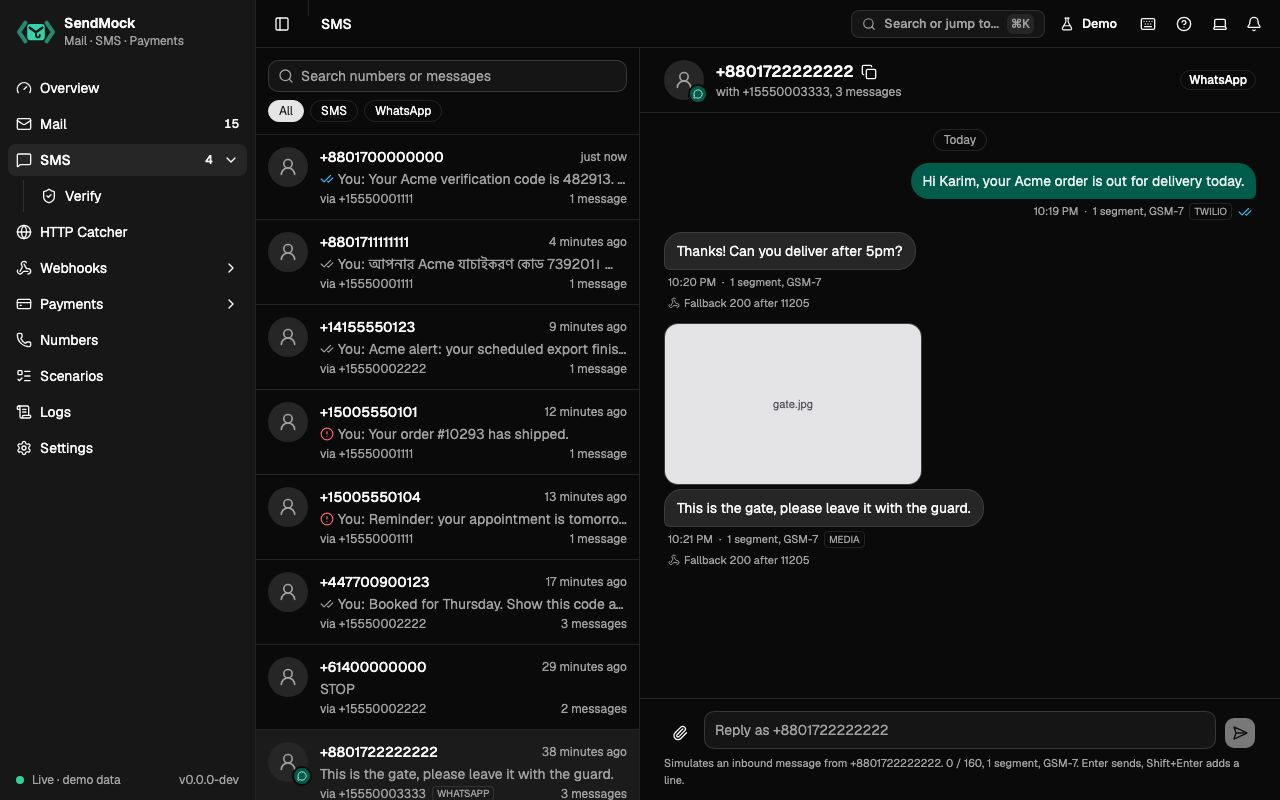
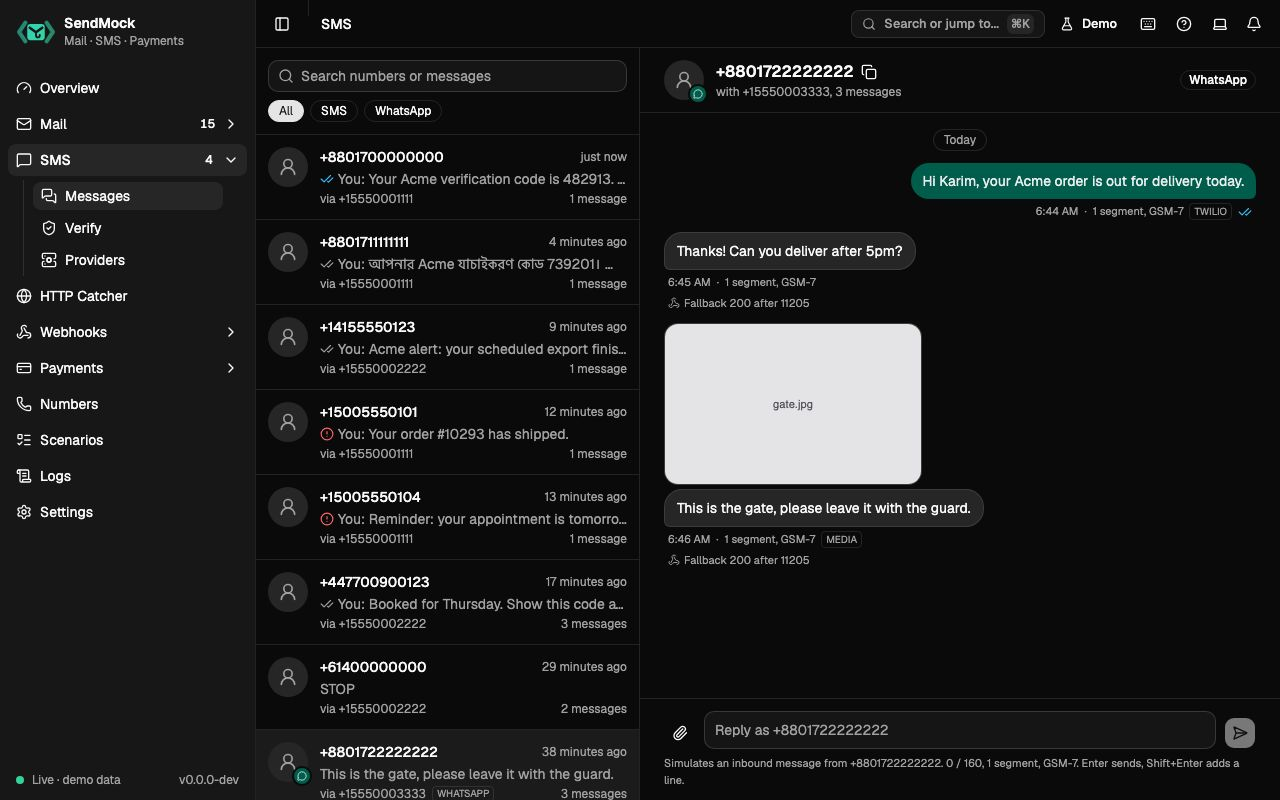
feat:[U3] add Inbox and Messages to the Mail and SMS sidebar menus

diff --git a/web/tests/e2e/app-shell.spec.ts b/web/tests/e2e/app-shell.spec.ts
@@ -56,6 +56,33 @@ test("UI-01.1 sidebar lists every section and highlights the current one", async
   await expect(sidebar.getByRole("link", { name: "Verify" })).toBeVisible();
 });
 
+test("UI-01.1 Mail and SMS list their messages as Inbox and Messages, lit only on their own page", async ({
+  page,
+}) => {
+  const sidebar = page.locator("[data-sidebar='sidebar']");
+  const inboxLink = sidebar.getByRole("link", { name: "Inbox", exact: true });
+  const messagesLink = sidebar.getByRole("link", {
+    name: "Messages",
+    exact: true,
+  });
+
+  await sidebar.getByRole("link", { name: "Mail", exact: true }).click();
+  await expect(inboxLink).toHaveAttribute("data-active", "true");
+  await sidebar.getByRole("link", { name: "Providers", exact: true }).click();
+  await expect(page).toHaveURL(/\/mail\/providers$/);
+  await expect(inboxLink).not.toHaveAttribute("data-active", "true");
+  await inboxLink.click();
+  await expect(page).toHaveURL(/\/mail$/);
+
+  await sidebar.getByRole("link", { name: "SMS", exact: true }).click();
+  await expect(messagesLink).toHaveAttribute("data-active", "true");
+  await sidebar.getByRole("link", { name: "Verify", exact: true }).click();
+  await expect(page).toHaveURL(/\/sms\/verify$/);
+  await expect(messagesLink).not.toHaveAttribute("data-active", "true");
+  await messagesLink.click();
+  await expect(page).toHaveURL(/\/sms$/);
+});
+
 test("UI-01.1 sections with sub-items show a chevron that turns when the group opens", async ({
   page,
 }) => {
@@ -69,12 +96,7 @@ test("UI-01.1 sections with sub-items show a chevron that turns when the group o
     await expect(chevronOf(groupTitle)).toBeVisible();
     await expect(chevronOf(groupTitle)).not.toHaveClass(/rotate-90/);
   }
-  for (const plainTitle of [
-    "Overview",
-    "HTTP Catcher",
-    "Numbers",
-    "Logs",
-  ]) {
+  for (const plainTitle of ["Overview", "HTTP Catcher", "Numbers", "Logs"]) {
     await expect(chevronOf(plainTitle)).toHaveCount(0);
   }
 

diff --git a/web/src/features/navigation/navigation-items.ts b/web/src/features/navigation/navigation-items.ts
@@ -6,12 +6,14 @@ import {
   FileCode2Icon,
   GaugeIcon,
   GlobeIcon,
+  InboxIcon,
   ListChecksIcon,
   ListTodoIcon,
   MailPlusIcon,
   type LucideIcon,
   MailIcon,
   MessageSquareIcon,
+  MessagesSquareIcon,
   PhoneIcon,
   ReceiptIcon,
   ScrollTextIcon,
@@ -48,6 +50,7 @@ export const navigationItems: NavigationItem[] = [
     icon: MailIcon,
     shortcutKey: "m",
     children: [
+      { title: "Inbox", path: "/mail", icon: InboxIcon },
       { title: "Providers", path: "/mail/providers", icon: ServerCogIcon },
     ],
   },
@@ -57,6 +60,7 @@ export const navigationItems: NavigationItem[] = [
     icon: MessageSquareIcon,
     shortcutKey: "s",
     children: [
+      { title: "Messages", path: "/sms", icon: MessagesSquareIcon },
       {
         title: "Verify",
         path: "/sms/verify",

diff --git a/docs/plan/18-phase-u3.md b/docs/plan/18-phase-u3.md
@@ -253,3 +253,4 @@ Raised by the owner while reviewing the preview; each is done on `docs/user-guid
 | F6 | 2026-10-27 | The closing call to action repeated the hero; a professional marketing video should come instead, about the problem SendMock solves and how it saves developers time. | Planned the [promotional video](16-website-and-releases.md#promotional-video-decided-2026-10-27) (about 90 seconds: problem, fix, payoff, fits your work, call to action; a 30-second cut; captions; YouTube loaded only on play) and criterion WS-02.4. The closing card became "Stop testing on real inboxes and phones": a product poster in both themes, a play button that stays disabled with "Video coming soon" until the video exists, and three benefit points. | Done (video to produce) |
 | F7 | 2026-10-27 | The "Everything in one place" cards looked plain; they should look high class, with Magic UI, while staying simple, clear and evenly sized. | Six equal cards in a 3 by 2 grid (the binary and Docker card was dropped: the quick start already covers it). Each card has a preview panel of one height with one calm product scene: a row of emails with their checks (Marquee), text messages arriving one by one (Animated List from the Magic UI registry, static with reduced motion), two webhook deliveries, a test checkout with its signed IPN, two caught HTTP calls, an agent session with MCP tools. Below it the icon, title and a three-line description; the card height follows its content, and an arrow at the end of the title row links to its docs page (the card itself is not a link). No new dependencies. | Done |
 | F8 | 2026-10-27 | The landing numbers should link to their lists, so a reader can check each count is real. | Each number links to its list: 15 built-in provider APIs to a new [Supported providers](../wiki/providers.md) page (built in, not fixed: users change, remove or add providers, recorded in plans 03 and 04 to match payment gateways), the languages to Connect your app, the operations to the API reference. Checking the counts found two errors, now fixed: Telnyx was counted as an emulated provider but is only a webhook template (replaced by MessageBird, which plan 04 emulates), and "languages tested in CI" is not true until `examples/` exists, so the label is "languages with connection guides". A unit test checks the providers page lists exactly the counted providers and Connect your app names every counted language. | Done |
+| F9 | 2026-10-27 | Mail and SMS should show their message list as a submenu, **Inbox** and **Messages**, next to Providers and Verify. | Mail now has the children Inbox and Providers, SMS has Messages, Verify and Providers, like Payments > All payments; **Mail** and **SMS** still open the list, and the child is lit only on its own page. The sidebar tour, the Mail and SMS guide pages and the screenshots that show the sidebar were updated; an app shell test covers both children (UI-01.1). |

diff --git a/docs/plan/PROGRESS.md b/docs/plan/PROGRESS.md
@@ -445,3 +445,4 @@ See [10-open-questions.md](10-open-questions.md). Summary:
 | 2026-10-27 | U3 feedback F8 done ([18](18-phase-u3.md#feedback-items)): the landing numbers link to their lists (new docs page Supported providers, which presents them as built-ins users can change, remove or add to, Connect your app, the API reference). Fixed the provider count (Telnyx is only a webhook template; MessageBird is the emulated one) and the language label (connection guides, until the `examples/` CI matrix exists). |
 | 2026-10-27 | Plan: configurable email and SMS providers ([22](22-configurable-providers.md), U3 W16, new features EM-18 and SM-16 with 8 criteria each). Like payment gateways, every email and SMS provider becomes a definition (identity, host, credentials, operations from a fixed kind catalogue, field mapping, validation, success and error responses, message id, callbacks, status names and SMS error codes): built-ins are edited, reset, removed and restored; custom providers start blank or from a built-in and replace the "Generic HTTP" SMS adapter. Mail > Providers and SMS > Providers, 18 operations in REST, CLI and MCP (a secret reveal among them, not in MCP), `add-email-provider` and `add-sms-provider` skill workflows, seed support. The shipped built-ins keep passing the provider fixture and SDK tests. Inside the sign-off gate, as it changes the contract. |
 | 2026-10-27 | Configurable email and SMS providers built for the UI (U3 W16, [22](22-configurable-providers.md)): 18 operations in the contract (9 per area, a credential reveal among them), the mock API with the 11 built-in definitions and SSL Wireless as a custom example, a preview runner (request matching, field mapping, checks, responses, problems), seed export; Mail > Providers and SMS > Providers with Add provider, Reset, Remove and Restore, Delete, a six-tab sheet with a live preview, provider badges on messages, provider keys in mail search and the SMS rule picker, a Provider APIs card in Settings > Connection; guide pages, two Advanced walkthroughs with tests, and the `add-email-provider` and `add-sms-provider` skill workflows. `Email.source` and `SmsMessage.api` became provider keys; the Generic HTTP SMS adapter is dropped. EM-18 and SM-16 criteria 1 to 4 and 7 are proven on the UI and mock API; 5, 6 and 8 wait for the Stage B runtime. Also fixed on the way: the website accessibility and phone-width failures from the landing work. |
+| 2026-10-27 | U3 feedback F9 done ([18](18-phase-u3.md#feedback-items)): the sidebar shows Mail > Inbox and SMS > Messages as submenus, beside Providers and Verify; the tour table now lists Mail > Providers and SMS > Providers too, and the screenshots with the sidebar were retaken. |

diff --git a/docs/wiki/sms/index.md b/docs/wiki/sms/index.md
@@ -5,7 +5,7 @@ description: Twilio and Vonage compatible SMS and WhatsApp, shown as conversatio
 
 > Try it in the [demo](/demo/sms). Works in your install from Phase 2 (sending, status and callbacks), Phase 3 (reply webhooks) and Phase 4 (WhatsApp and more providers).
 
-Every SMS and WhatsApp message your app sends lands here, grouped into conversations like a phone shows them. Nothing reaches a real phone.
+Every SMS and WhatsApp message your app sends lands in **SMS > Messages**, grouped into conversations like a phone shows them. Nothing reaches a real phone. **SMS** opens the messages; [SMS > Verify](./verify.md) and [SMS > Providers](./providers.md) sit under it.
 
 ![The SMS screen with a WhatsApp conversation open](../images/sms.jpg)
 
@@ -29,10 +29,11 @@ Every SMS and WhatsApp message your app sends lands here, grouped into conversat
 
 ## Use it
 
-1. Point your app's SMS provider base URL at `http://127.0.0.1:8026` (Twilio and Vonage SDKs keep working), or press **Send a sample SMS** on the empty screen.
-2. Send an SMS from your app. The conversation for that number pair moves to the top.
-3. Open it. Watch the ticks go from sent to delivered, and copy the code if the message has one.
-4. Type "YES" in **Reply as recipient** at the bottom and send. The contact's reply appears on the left, and the number's reply webhook is called.
+1. Open **SMS > Messages** (`G S`).
+2. Point your app's SMS provider base URL at `http://127.0.0.1:8026` (Twilio and Vonage SDKs keep working), or press **Send a sample SMS** on the empty screen.
+3. Send an SMS from your app. The conversation for that number pair moves to the top.
+4. Open it. Watch the ticks go from sent to delivered, and copy the code if the message has one.
+5. Type "YES" in **Reply as recipient** at the bottom and send. The contact's reply appears on the left, and the number's reply webhook is called.
 
 ## Everything on this screen
 

diff --git a/docs/wiki/mail/index.md b/docs/wiki/mail/index.md
@@ -5,7 +5,7 @@ description: Catch every email your app sends over SMTP or a provider API, read 
 
 > Try it in the [demo](/demo/mail). Works in your install from Phase 1 (SMTP and the native API), Phase 3 (outcome events) and Phase 4 (provider APIs, checks, replies and release).
 
-Every email your app sends lands here, whatever the recipient, and nothing is delivered to a real inbox.
+Every email your app sends lands in **Mail > Inbox**, whatever the recipient, and nothing is delivered to a real inbox. **Mail** opens the inbox; [Mail > Providers](./providers.md) lists the email APIs SendMock answers.
 
 ![The Mail screen with an email open on its HTML preview](../images/mail.jpg)
 
@@ -28,10 +28,11 @@ Every email your app sends lands here, whatever the recipient, and nothing is de
 
 ## Use it
 
-1. Point your app's mail settings at `127.0.0.1:1025` (any username and password, no TLS needed), or press **Send a sample email** on the empty screen.
-2. Trigger an email in your app. It appears at the top of the list within a second.
-3. Open it. Read the **HTML** tab, switch to the phone width, and copy the code or link from the extracted panel.
-4. Press **Simulate** and pick **Hard bounce**. The email shows the outcome, its **Timeline** gets an entry, and any rule on `email.bounced` sends a delivery.
+1. Open **Mail > Inbox** (`G M`).
+2. Point your app's mail settings at `127.0.0.1:1025` (any username and password, no TLS needed), or press **Send a sample email** on the empty screen.
+3. Trigger an email in your app. It appears at the top of the list within a second.
+4. Open it. Read the **HTML** tab, switch to the phone width, and copy the code or link from the extracted panel.
+5. Press **Simulate** and pick **Hard bounce**. The email shows the outcome, its **Timeline** gets an entry, and any rule on `email.bounced` sends a delivery.
 
 ## Everything on this screen
 

diff --git a/docs/wiki/tour.md b/docs/wiki/tour.md
@@ -14,9 +14,11 @@ Press `G` and then the key in the table to jump to a menu from anywhere.
 | Menu | Key | What it is for | Page |
 | --- | --- | --- | --- |
 | Overview | `G O` | the home dashboard: counts, activity, webhook health, recent failures and how to connect | [Overview](./overview.md) |
-| Mail | `G M` | every email your app sent, and the replies you simulate | [Mail](./mail/index.md) |
-| SMS | `G S` | every SMS and WhatsApp message, as conversations | [SMS](./sms/index.md) |
+| Mail > Inbox | `G M` | every email your app sent, and the replies you simulate | [Mail](./mail/index.md) |
+| Mail > Providers | | the email APIs SendMock answers (SendGrid, Mailgun, ..., your own) | [Providers](./mail/providers.md) |
+| SMS > Messages | `G S` | every SMS and WhatsApp message, as conversations | [SMS](./sms/index.md) |
 | SMS > Verify | `G V` | Twilio Verify codes, with their expiry and attempts | [Verify](./sms/verify.md) |
+| SMS > Providers | | the SMS APIs SendMock answers (Twilio, Vonage, ..., your own) | [Providers](./sms/providers.md) |
 | HTTP Catcher | `G H` | the catcher for any other HTTP call your app makes | [HTTP Catcher](./http/index.md) |
 | Webhooks | `G W` | what SendMock sends back to your app, and its health | [Webhooks](./webhooks/index.md) |
 | Webhooks > Endpoints | | where deliveries go and how they are shaped and signed | [Endpoints](./webhooks/endpoints.md) |
